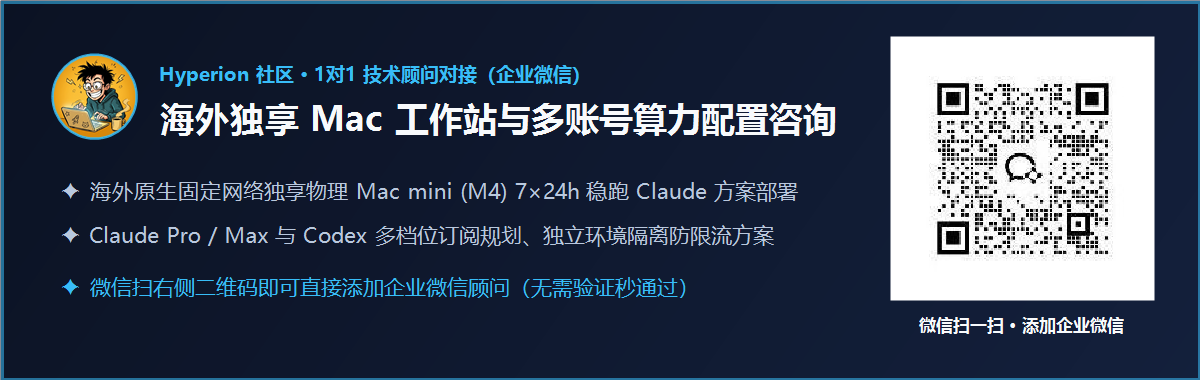
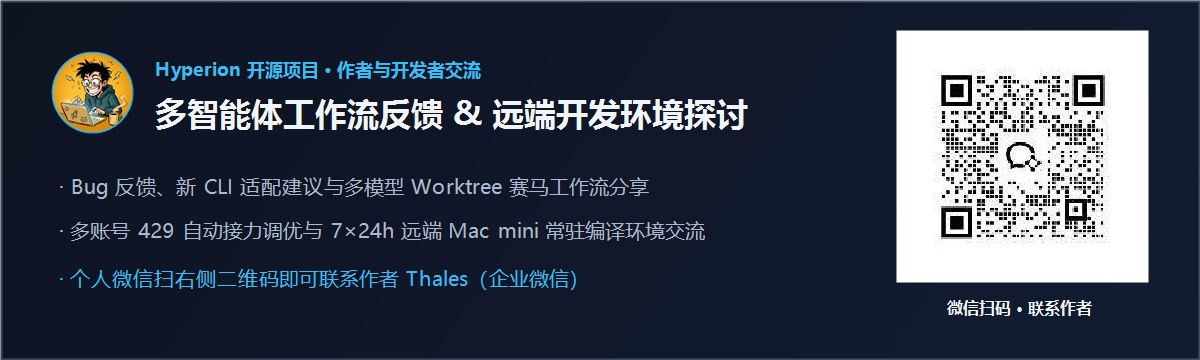
docs: refine workflow guides and community author contact style

diff --git a/site/index.html b/site/index.html
@@ -563,7 +563,7 @@
       <nav class="nav-links">
         <a href="#showcase" data-zh="实机预览" data-en="Live Tour">实机预览</a>
         <a href="#features" data-zh="核心能力" data-en="Capabilities">核心能力</a>
-        <a href="#playbooks" data-zh="⚡ 算力与远端 Mac 方案" data-en="⚡ Playbooks">⚡ 算力与远端 Mac 方案</a>
+        <a href="#playbooks" data-zh="⚡ 工作流指南" data-en="⚡ Workflows">⚡ 工作流指南</a>
         <a href="#quick-start" data-zh="快速上手" data-en="Quick Start">快速上手</a>
         <a href="https://github.com/ThalesNotTychus/Hyperion/discussions" target="_blank" rel="noopener" data-zh="💬 社区讨论区 ↗" data-en="💬 Community ↗">💬 社区讨论区 ↗</a>
       </nav>
@@ -714,68 +714,68 @@
     <!-- High-Throughput Engineering Playbooks (Funnel Hub) -->
     <section class="section" id="playbooks">
       <div class="sec-head">
-        <div class="sec-eyebrow">ENGINEERING PLAYBOOKS</div>
-        <h2 data-zh="重度 AI 研发的算力规划与全天候远端工作站方案" data-en="High-Throughput Quota Planning &amp; 24/7 Cloud Mac Workflows">重度 AI 研发的算力规划与全天候远端工作站方案</h2>
-        <p data-zh="针对高频使用 Claude Code、Claude Desktop (Cowork / MCP) 与 Codex 时的限流中断与环境稳定性痛点，社区沉淀了两套成熟工程实践。"
-           data-en="Proven engineering playbooks for uninterrupted multi-account failover and 24/7 dedicated macOS cloud workstations.">
-          针对高频使用 Claude Code、Claude Desktop (Cowork / MCP) 与 Codex 时的限流中断与环境稳定性痛点，社区沉淀了两套成熟工程实践。
+        <div class="sec-eyebrow">WORKFLOW GUIDES &amp; COMMUNITY</div>
+        <h2 data-zh="重度多智能体工作流与全天候远端构建实践" data-en="Multi-Agent Quota Failover &amp; 24/7 Remote Mac Workflows">重度多智能体工作流与全天候远端构建实践</h2>
+        <p data-zh="针对高频运行 Claude Code、Claude Desktop (Cowork / MCP) 与 Codex 时的限流中断与长程任务常驻需求，社区沉淀了两套工程实践。"
+           data-en="Community-tested engineering guides for uninterrupted multi-account failover and 24/7 dedicated macOS build hosts.">
+          针对高频运行 Claude Code、Claude Desktop (Cowork / MCP) 与 Codex 时的限流中断与长程任务常驻需求，社区沉淀了两套工程实践。
         </p>
       </div>
 
       <div class="playbooks-grid">
         <div class="playbook-card">
           <div>
-            <span class="playbook-tag" data-zh="⚡ 方案一 · 本地多号与配额轮换" data-en="⚡ Playbook 01 · Multi-Account Failover">⚡ 方案一 · 本地多号与配额轮换</span>
+            <span class="playbook-tag" data-zh="⚡ 指南一 · 多号配额轮换" data-en="⚡ Guide 01 · Multi-Account Failover">⚡ 指南一 · 多号配额轮换</span>
             <h3 data-zh="多订阅池 429 无感接力与梯度配额组网" data-en="Multi-Subscription Pool &amp; Seamless 429 Failover">多订阅池 429 无感接力与梯度配额组网</h3>
-            <p data-zh="单一 Plus / Pro 订阅跑长程架构重构或并发测试时极易撞上 5 小时窗口限流。通过 Hyperion 进程级目录隔离组网多账号算力池，在主号逼近 92% 阈值时自动折跃至健康备用号继续执行。"
+            <p data-zh="单一订阅跑长程架构重构或并发测试时极易撞上 5 小时窗口限流。通过 Hyperion 进程级目录隔离组网多账号算力池，在主号逼近 92% 阈值时自动折跃至健康备用号继续执行。"
                data-en="Single subscriptions frequently hit 5-hour rate windows during large refactors. Combine isolated Codex / Claude profiles with fallback APIs for zero-downtime execution.">
-              单一 Plus / Pro 订阅跑长程架构重构或并发测试时极易撞上 5 小时窗口限流。通过 Hyperion 进程级目录隔离组网多账号算力池，在主号逼近 92% 阈值时自动折跃至健康备用号继续执行。
+              单一订阅跑长程架构重构或并发测试时极易撞上 5 小时窗口限流。通过 Hyperion 进程级目录隔离组网多账号算力池，在主号逼近 92% 阈值时自动折跃至健康备用号继续执行。
             </p>
             <ul class="playbook-bullets">
-              <li data-zh="Codex / Claude 多档位独立订阅配额对比与选型建议" data-en="Quota planning across Plus, Pro &amp; Max subscription tiers">Codex / Claude 多档位独立订阅配额对比与选型建议</li>
+              <li data-zh="多档位独立订阅配额对比与选型经验" data-en="Quota planning across subscription tiers &amp; APIs">多档位独立订阅配额对比与选型经验</li>
               <li data-zh="进程级独立配置目录绑定与 429 自动接力参数调优" data-en="Per-process directory isolation &amp; 92% auto-failover tuning">进程级独立配置目录绑定与 429 自动接力参数调优</li>
-              <li data-zh="主力订阅 + 按量 API 混合赛马的高性价比省额度打法" data-en="Hybrid subscription + pay-as-you-go API Arena strategy">主力订阅 + 按量 API 混合赛马的高性价比省额度打法</li>
+              <li data-zh="主力订阅 + 按量 API 混合赛马的高性价比打法" data-en="Hybrid subscription + pay-as-you-go API Arena strategy">主力订阅 + 按量 API 混合赛马的高性价比打法</li>
             </ul>
           </div>
           <div>
             <a class="playbook-link" href="https://github.com/ThalesNotTychus/Hyperion/discussions/2" target="_blank" rel="noopener"
-               data-zh="阅读多号配额规划与接力实战指南 →" data-en="Read Multi-Account Failover Playbook →">阅读多号配额规划与接力实战指南 →</a>
+               data-zh="阅读多号配额规划与接力指南 →" data-en="Read Multi-Account Failover Guide →">阅读多号配额规划与接力指南 →</a>
           </div>
         </div>
 
         <div class="playbook-card">
           <div>
-            <span class="playbook-tag" data-zh="🖥 方案二 · 远端纯净物理算力" data-en="🖥 Playbook 02 · Dedicated Cloud Mac">🖥 方案二 · 远端纯净物理算力</span>
-            <h3 data-zh="海外独享物理 Mac mini 云工作站 · 7×24h 稳跑 Claude" data-en="Dedicated Overseas Mac mini · 24/7 Stable Claude Code">海外独享物理 Mac mini 云工作站 · 7×24h 稳跑 Claude</h3>
-            <p data-zh="重度使用 Claude Pro / Max、Claude Code 与 Claude Desktop 时，本地网络波动易影响会话与账号稳定性，且本地关机会中断通宵长程任务。采用一人一机海外原生固定网络物理 Mac mini (M4)，开机即享全天候纯净研发环境。"
-               data-en="Eliminate local network instability and overnight sleep interruptions by running Claude Code &amp; Desktop 24/7 on a dedicated physical Mac mini (M4) workstation.">
-              重度使用 Claude Pro / Max、Claude Code 与 Claude Desktop 时，本地网络波动易影响会话与账号稳定性，且本地关机会中断通宵长程任务。采用一人一机海外原生固定网络物理 Mac mini (M4)，开机即享全天候纯净研发环境。
+            <span class="playbook-tag" data-zh="🖥 指南二 · 7×24h 远端主机" data-en="🖥 Guide 02 · Dedicated Remote Mac">🖥 指南二 · 7×24h 远端主机</span>
+            <h3 data-zh="远端物理 Mac mini (M4) · 7×24h 常驻 Agent 与编译工作站" data-en="Dedicated Mac mini (M4) · 24/7 Always-On Agent Workflows">远端物理 Mac mini (M4) · 7×24h 常驻 Agent 与编译工作站</h3>
+            <p data-zh="跑通宵长程重构任务（/goal、多子智能体编排、定时自动化）或跨端 iOS/macOS 构建时，本地开发机休眠或网络抖动容易导致会话中断。采用独立物理 Mac mini (M4) 云端常驻环境可实现全天候不间断运行。"
+               data-en="Keep long-horizon agent loops, MCP servers, and Xcode builds running 24/7 without local sleep or connectivity interruptions on dedicated Apple Silicon hardware.">
+              跑通宵长程重构任务（/goal、多子智能体编排、定时自动化）或跨端 iOS/macOS 构建时，本地开发机休眠或网络抖动容易导致会话中断。采用独立物理 Mac mini (M4) 云端常驻环境可实现全天候不间断运行。
             </p>
             <ul class="playbook-bullets">
-              <li data-zh="一人一机物理硬件隔离 + 海外原生固定网络环境，告别波动断连" data-en="1-tenant dedicated Apple Silicon hardware &amp; static native network">一人一机物理硬件隔离 + 海外原生固定网络环境，告别波动断连</li>
-              <li data-zh="7×24h 不关机常驻运行长程 Agent 编排、MCP 服务与 iOS 编译" data-en="24/7 always-on execution for long-horizon agents, MCP &amp; Xcode builds">7×24h 不关机常驻运行长程 Agent 编排、MCP 服务与 iOS 编译</li>
-              <li data-zh="Windows 本地低延迟远程桌面 / SSH 无缝连入，即开即用" data-en="Low-latency Parsec / RustDesk / SSH access directly from Windows">Windows 本地低延迟远程桌面 / SSH 无缝连入，即开即用</li>
+              <li data-zh="独立物理 Apple Silicon 硬件隔离与固定稳定环境" data-en="Dedicated physical Apple Silicon hardware &amp; consistent environment">独立物理 Apple Silicon 硬件隔离与固定稳定环境</li>
+              <li data-zh="7×24h 不关机常驻运行 Claude Code、MCP 服务与 Xcode 构建" data-en="24/7 always-on execution for Claude Code, MCP &amp; Xcode builds">7×24h 不关机常驻运行 Claude Code、MCP 服务与 Xcode 构建</li>
+              <li data-zh="Windows 本地低延迟远程桌面 / SSH 无缝连入协同开发" data-en="Low-latency Parsec / RustDesk / SSH access from Windows">Windows 本地低延迟远程桌面 / SSH 无缝连入协同开发</li>
             </ul>
           </div>
           <div>
-            <a class="playbook-link" href="#advisor"
-               data-zh="扫码添加企业微信顾问咨询部署方案 →" data-en="Contact Engineering Advisor via WeCom →">扫码添加企业微信顾问咨询部署方案 →</a>
+            <a class="playbook-link" href="https://github.com/ThalesNotTychus/Hyperion/discussions/2" target="_blank" rel="noopener"
+               data-zh="查看远端 Mac 常驻环境配置指南 →" data-en="Read Remote Mac Setup Guide →">查看远端 Mac 常驻环境配置指南 →</a>
           </div>
         </div>
       </div>
 
       <div class="advisor-banner" id="advisor">
         <div class="advisor-copy">
-          <span class="playbook-tag" data-zh="💬 1对1 技术顾问对接 · 企业微信直连" data-en="💬 1-on-1 Engineering Advisor · WeCom">💬 1对1 技术顾问对接 · 企业微信直连</span>
-          <h3 data-zh="需要海外独享物理 Mac 工作站或多账号配额方案？" data-en="Need a Dedicated Cloud Mac Workstation or Multi-Account Quota Setup?">需要海外独享物理 Mac 工作站或多账号配额方案？</h3>
-          <p data-zh="直接使用手机微信扫描右侧二维码即可添加技术顾问企业微信（免验证秒通过），一对一咨询一人一机海外原生固定网络 Mac mini (M4) 7×24h 稳跑 Claude 方案与 Claude / Codex 多档位算力规划。"
-             data-en="Scan the QR code with WeChat to connect directly with our engineering advisor for dedicated overseas Apple Silicon workstations and multi-account quota planning.">
-            直接使用手机微信扫描右侧二维码即可添加技术顾问企业微信（免验证秒通过），一对一咨询一人一机海外原生固定网络 Mac mini (M4) 7×24h 稳跑 Claude 方案与 Claude / Codex 多档位算力规划。
+          <span class="playbook-tag" data-zh="💬 开发者交流 · 联系作者" data-en="💬 Developer Community · Contact Author">💬 开发者交流 · 联系作者</span>
+          <h3 data-zh="工作流交流、问题反馈与远端开发环境探讨" data-en="Workflow Feedback, CLI Suggestions &amp; Setup Discussions">工作流交流、问题反馈与远端开发环境探讨</h3>
+          <p data-zh="在使用 Hyperion 过程中遇到任何兼容性问题、希望许愿新功能，或想交流多账号防限流调优与 7×24h 远端 Mac 开发环境搭建方案，欢迎在 GitHub Discussions 留言，或直接用微信扫描右侧二维码联系作者 Thales。"
+             data-en="Have feedback, feature requests, or questions about multi-account quota setups and 24/7 remote Mac workflows? Open a thread on GitHub Discussions or scan via WeChat to connect with the author.">
+            在使用 Hyperion 过程中遇到任何兼容性问题、希望许愿新功能，或想交流多账号防限流调优与 7×24h 远端 Mac 开发环境搭建方案，欢迎在 GitHub Discussions 留言，或直接用微信扫描右侧二维码联系作者 Thales。
           </p>
         </div>
         <div class="advisor-qr-box">
-          <img src="./images/wecom-qr.png" alt="企业微信技术顾问二维码" />
-          <span data-zh="微信扫一扫 · 添加顾问" data-en="Scan with WeChat">微信扫一扫 · 添加顾问</span>
+          <img src="./images/wecom-qr.png" alt="作者企业微信二维码" />
+          <span data-zh="微信扫码 · 联系作者" data-en="Scan via WeChat">微信扫码 · 联系作者</span>
         </div>
       </div>
     </section>
@@ -866,10 +866,6 @@ powershell -NoProfile -ExecutionPolicy Bypass -File .\scripts\Accept-Release.ps1
       </div>
     </div>
   </footer>
-
-  <a class="advisor-fab" href="#advisor">
-    <span data-zh="💬 微信扫码联系顾问" data-en="💬 Contact Advisor">💬 微信扫码联系顾问</span>
-  </a>
 
   <script>
     (function () {

diff --git a/README.zh-CN.md b/README.zh-CN.md
@@ -6,7 +6,7 @@
 
   <p>
     <a href="https://thalesnottychus.github.io/Hyperion/"><img src="https://img.shields.io/badge/%F0%9F%8C%90_%E5%AE%98%E6%96%B9%E7%BD%91%E7%AB%99-%E5%9C%A8%E7%BA%BF%E9%A2%84%E8%A7%88-6366F1?style=for-the-badge" alt="官方网站" /></a>
-    <a href="https://github.com/ThalesNotTychus/Hyperion/discussions/2"><img src="https://img.shields.io/badge/%E2%9A%A1_%E5%AE%9E%E6%88%98%E6%96%B9%E6%A1%88-%E5%A4%9A%E5%8F%B7%E6%8E%A5%E5%8A%9B_%26_%E6%B5%B7%E5%A4%96Mac%E7%A8%B3%E8%B7%91Claude-0EA5E9?style=for-the-badge" alt="多号接力与海外Mac稳跑Claude方案" /></a>
+    <a href="https://github.com/ThalesNotTychus/Hyperion/discussions"><img src="https://img.shields.io/badge/%F0%9F%92%AC_%E5%BC%80%E5%8F%91%E8%80%85%E7%A4%BE%E5%8C%BA-%E5%AE%9E%E6%88%98%E6%8C%87%E5%8D%97-0EA5E9?style=for-the-badge" alt="开发者社区与实战指南" /></a>
     <a href="https://github.com/ThalesNotTychus/Hyperion/releases/latest"><img src="https://img.shields.io/badge/%E2%AC%87%EF%B8%8F_%E7%AB%8B%E5%8D%B3%E4%B8%8B%E8%BD%BD_v0.0.2-%E5%85%8D%E5%AE%89%E8%A3%85%E4%BE%BF%E6%90%BA%E7%89%88-10B981?style=for-the-badge" alt="下载便携版" /></a>
     <a href="README.md"><img src="https://img.shields.io/badge/English-Documentation-334155?style=for-the-badge" alt="English" /></a>
   </p>
@@ -67,19 +67,21 @@
 
 ---
 
-## ⚡ 进阶实战指南（多号防限流 & 海外独享 Mac 稳跑 Claude 方案）
+## 💬 进阶工作流指南与开发者社区
 
-针对重度使用 **Claude Pro / Max、Claude Code、Claude Desktop (Cowork / MCP)** 与 **Codex** 时的常见瓶颈，社区讨论区已整理置顶实战指南：
+我们在 [**GitHub Discussions 讨论区**](https://github.com/ThalesNotTychus/Hyperion/discussions) 整理了重度多智能体开发常见的工程实践：
 
 - 🔋 **[多账号池 `429` 无感接力配置与梯度配额规划](https://github.com/ThalesNotTychus/Hyperion/discussions/2)**：利用进程级目录隔离组网多订阅号 + 按量 API 兜底，逼近 92% 阈值自动无缝换号续跑长程任务。
-- 🖥 **[海外独享物理 Mac mini 云工作站：7×24h 稳定运行 Claude 方案](https://github.com/ThalesNotTychus/Hyperion/discussions/2)**：告别本地网络波动伤号与关机断连，一人一机海外原生固定网络环境全天候运行长程 Agent 编排与跨端编译。
-- 💬 **[加入官方开发者社区与功能许愿池](https://github.com/ThalesNotTychus/Hyperion/discussions/1)**：反馈需求、交流多智能体工作流与获取算力环境配置建议。
+- 🖥 **[远端 Mac mini (M4) 云工作站：7×24h 常驻运行 Agent 与跨端构建方案](https://github.com/ThalesNotTychus/Hyperion/discussions/2)**：在独立 Apple Silicon 物理主机上全天候常驻运行长程 Agent 编排、MCP 服务与 iOS/macOS 编译。
+- 💡 **[版本路线图与功能许愿池](https://github.com/ThalesNotTychus/Hyperion/discussions/1)**：反馈需求、提交新 CLI 适配建议与分享多模型协作技巧。
 
-<p align="center">
-  <a href="https://thalesnottychus.github.io/Hyperion/#advisor">
-    <img src="docs/images/advisor-contact.png" alt="微信扫码添加企业微信技术顾问 · 海外独享 Mac 工作站与多账号算力配置咨询" width="100%" />
-  </a>
-</p>
+<details>
+  <summary><strong>📮 微信扫码联系作者 / 开发者一对一交流（点击展开）</strong></summary>
+  <br/>
+  <p align="center">
+    <img src="docs/images/advisor-contact.png" alt="Hyperion 开源项目 · 作者与开发者交流" width="92%" />
+  </p>
+</details>
 
 ---
 

diff --git a/README.md b/README.md
@@ -7,7 +7,7 @@
   <p>
     <a href="https://thalesnottychus.github.io/Hyperion/"><img src="https://img.shields.io/badge/%F0%9F%8C%90_Official_Website-Live_Portal-6366F1?style=for-the-badge" alt="Official Website" /></a>
     <a href="README.zh-CN.md"><img src="https://img.shields.io/badge/%F0%9F%87%A8%F0%9F%87%B3_%E7%AE%80%E4%BD%93%E4%B8%AD%E6%96%87-%E7%82%B9%E5%87%BB%E5%88%87%E6%8D%A2%E4%B8%AD%E6%96%87%E6%96%87%E6%A1%A3-0EA5E9?style=for-the-badge" alt="简体中文文档" /></a>
-    <a href="https://github.com/ThalesNotTychus/Hyperion/discussions/2"><img src="https://img.shields.io/badge/%E2%9A%A1_Playbooks-429_Failover_%26_24%2F7_Cloud_Mac-F59E0B?style=for-the-badge" alt="Engineering Playbooks" /></a>
+    <a href="https://github.com/ThalesNotTychus/Hyperion/discussions"><img src="https://img.shields.io/badge/%F0%9F%92%AC_Community-Guides_%26_Discussions-F59E0B?style=for-the-badge" alt="Community & Guides" /></a>
     <a href="https://github.com/ThalesNotTychus/Hyperion/releases/latest"><img src="https://img.shields.io/badge/%E2%AC%87%EF%B8%8F_Download_v0.0.2-Portable_Win_x64-10B981?style=for-the-badge" alt="Download Portable Release" /></a>
   </p>
 
@@ -89,13 +89,13 @@ Heavy AI developers routinely juggle multiple subscriptions and APIs (**Codex**,
 
 ---
 
-## ⚡ Engineering Playbooks & Community Hub
+## 💬 Workflow Guides & Developer Community
 
-Explore proven high-throughput workflows shared in our [**GitHub Discussions**](https://github.com/ThalesNotTychus/Hyperion/discussions):
+Explore practical multi-agent engineering setups in [**GitHub Discussions**](https://github.com/ThalesNotTychus/Hyperion/discussions):
 
-- 🔋 **[Multi-Account `429` Auto-Failover & Quota Planning Strategy](https://github.com/ThalesNotTychus/Hyperion/discussions/2)** — Combine isolated Codex / Claude profiles with pay-as-you-go fallback APIs for uninterrupted long-horizon coding.
-- 🖥 **[Dedicated Overseas Mac mini Cloud Workstation · 24/7 Stable Claude Code & Desktop](https://github.com/ThalesNotTychus/Hyperion/discussions/2)** — Eliminate local network instability and sleep interruptions on dedicated physical Apple Silicon environments.
-- 💬 **[Official Roadmap & Feature Requests](https://github.com/ThalesNotTychus/Hyperion/discussions/1)** — Share workflows, request new CLI adapters, or discuss multi-agent setups.
+- 🔋 **[Multi-Account `429` Auto-Failover & Quota Planning Guide](https://github.com/ThalesNotTychus/Hyperion/discussions/2)** — Combine isolated CLI profiles with fallback APIs for uninterrupted long-horizon coding.
+- 🖥 **[Dedicated Remote Mac mini (M4) · 24/7 Always-On Agent & Build Workflows](https://github.com/ThalesNotTychus/Hyperion/discussions/2)** — Run long-horizon coding agents, MCP servers, and Xcode builds continuously on dedicated Apple Silicon hardware.
+- 💡 **[Official Roadmap & Feature Requests](https://github.com/ThalesNotTychus/Hyperion/discussions/1)** — Share workflows, request new CLI adapters, or discuss multi-agent setups.
 
 ---
 
